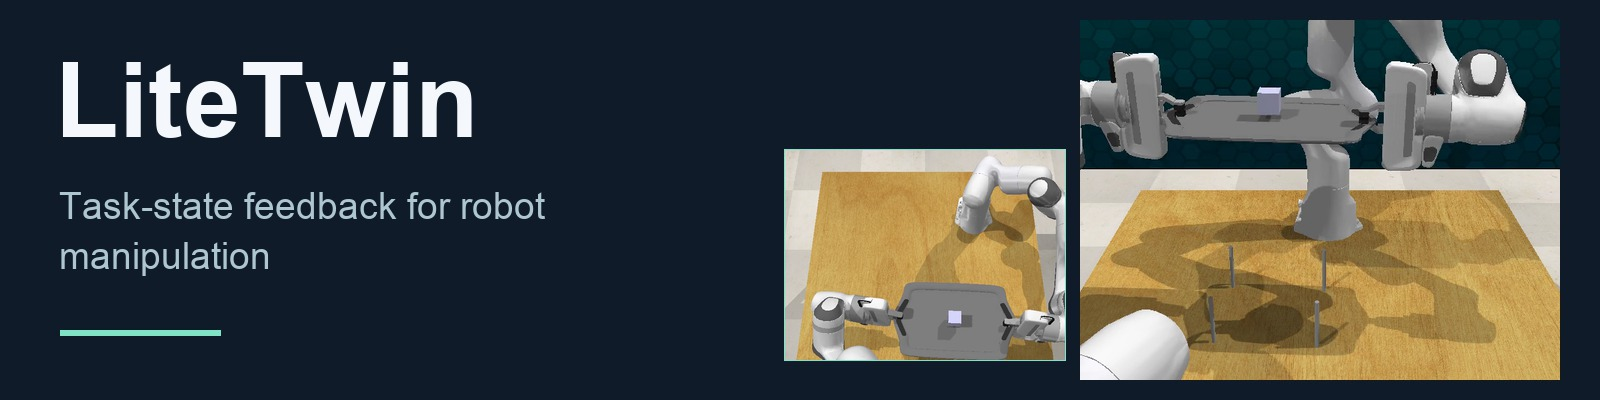
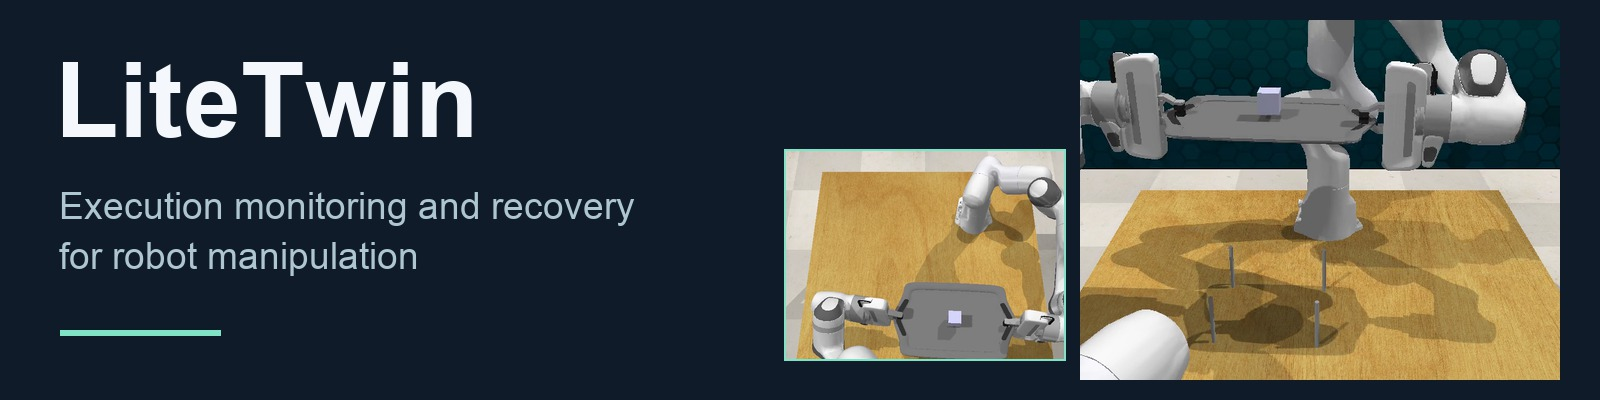
Use LiteTwin execution monitoring and recovery branding consistently

diff --git a/docs/translations.js b/docs/translations.js
@@ -114,7 +114,7 @@ const translations = {
     "navLibrary": "Task library",
     "navMethod": "Method",
     "heroKicker": "RLBench simulation",
-    "heroSecond": "Task-state feedback for robot manipulation",
+    "heroSecond": "Execution monitoring and recovery for robot manipulation",
     "watch": "Play the 40-second film",
     "browse": "Browse tasks",
     "navigation": "Navigation",
@@ -297,7 +297,7 @@ const translations = {
     "navLibrary": "任务库",
     "navMethod": "方法",
     "heroKicker": "RLBench 仿真",
-    "heroSecond": "机器人操作的任务状态反馈",
+    "heroSecond": "机器人操作的执行监控与恢复",
     "watch": "播放 40 秒短片",
     "browse": "浏览任务库",
     "navigation": "页面导航",
@@ -480,7 +480,7 @@ const translations = {
     "navLibrary": "任務庫",
     "navMethod": "方法",
     "heroKicker": "RLBench 模擬",
-    "heroSecond": "機器人操作的任務狀態回饋",
+    "heroSecond": "機器人操作的執行監控與恢復",
     "watch": "播放 40 秒短片",
     "browse": "瀏覽任務庫",
     "navigation": "頁面導覽",

diff --git a/docs/index.html b/docs/index.html
@@ -6,7 +6,7 @@
     <meta name="theme-color" content="#101719" />
     <meta
       name="description"
-      content="Explore LiteTwin task-state feedback through synchronized robot manipulation recordings, annotated comparisons and a reproducible simulation."
+      content="Explore LiteTwin execution monitoring and recovery through synchronized robot manipulation recordings, annotated comparisons and a reproducible simulation."
     />
     <title>LiteTwin · Robot manipulation demos</title>
     <link rel="icon" href="figures/litetwin-mark.png" />
@@ -224,7 +224,7 @@
             <h1 id="hero-title"
               ><span data-text="headline">LiteTwin</span>
               <em data-text="heroSecond"
-                >Task-state feedback for robot manipulation</em
+                >Execution monitoring and recovery for robot manipulation</em
               ></h1
             >
             <p class="hero-intro" data-text="intro"

diff --git a/demo/visualize_online.py b/demo/visualize_online.py
@@ -145,7 +145,7 @@ def render(records_root: Path, model_summary: Path, output_stem: Path) -> None:
     ax_relation = fig.add_subplot(grid[2], sharex=ax)
 
     fig.suptitle(
-        "Online task-state feedback during one perturbed rollout",
+        "Online execution monitoring and recovery during one perturbed rollout",
         x=0.15,
         y=0.955,
         ha="left",

diff --git a/code/litetwin/__init__.py b/code/litetwin/__init__.py
@@ -1,4 +1,4 @@
-"""Object-centric motion and task-state feedback implementations."""
+"""Object-centric motion and execution monitoring and recovery implementations."""
 
 from .policy import (
     BimanualDynaMAC,

diff --git a/code/litetwin/policy/__init__.py b/code/litetwin/policy/__init__.py
@@ -1,4 +1,4 @@
-"""Object-centric motion and task-state feedback policies."""
+"""Object-centric motion and execution monitoring and recovery policies."""
 
 from .feedback import (
     ArmCommand,

diff --git a/code/litetwin/policy/feedback/policy.py b/code/litetwin/policy/feedback/policy.py
@@ -57,7 +57,7 @@ Array = np.ndarray
 
 class LiteTwinMultiStreamPolicy:
 
-    name = "task_state_feedback"
+    name = "litetwin"
 
     def __init__(
         self,

diff --git a/README.zh-Hant.md b/README.zh-Hant.md
@@ -1,6 +1,6 @@
 <p align="center"><a href="README.md">English</a> &nbsp; · &nbsp; <a href="README.zh-Hans.md">简体中文</a> &nbsp; · &nbsp; <b>繁體中文</b></p>
 
-<p align="center"><img src="docs/figures/masthead.zh-Hant.jpg" alt="LiteTwin — 面向機器人操作的任務狀態回饋" width="100%"></p>
+<p align="center"><img src="docs/figures/masthead.zh-Hant.jpg" alt="LiteTwin — 面向機器人操作的執行監控與恢復" width="100%"></p>
 
 <p align="center"><a href="#demos">觀看演示</a> &nbsp; · &nbsp; <a href="#how-it-works">運作原理</a> &nbsp; · &nbsp; <a href="#quickstart">快速開始</a> &nbsp; · &nbsp; <a href="#code">程式碼</a> &nbsp; · &nbsp; <a href="#license">授權條款</a></p>
 

diff --git a/README.zh-Hans.md b/README.zh-Hans.md
@@ -1,6 +1,6 @@
 <p align="center"><a href="README.md">English</a> &nbsp; · &nbsp; <b>简体中文</b> &nbsp; · &nbsp; <a href="README.zh-Hant.md">繁體中文</a></p>
 
-<p align="center"><img src="docs/figures/masthead.zh-Hans.jpg" alt="LiteTwin — 面向机器人操作的任务状态反馈" width="100%"></p>
+<p align="center"><img src="docs/figures/masthead.zh-Hans.jpg" alt="LiteTwin — 面向机器人操作的执行监控与恢复" width="100%"></p>
 
 <p align="center"><a href="#demos">观看演示</a> &nbsp; · &nbsp; <a href="#how-it-works">工作原理</a> &nbsp; · &nbsp; <a href="#quickstart">快速开始</a> &nbsp; · &nbsp; <a href="#code">代码</a> &nbsp; · &nbsp; <a href="#license">许可证</a></p>
 

diff --git a/README.md b/README.md
@@ -1,6 +1,6 @@
 <p align="center"><b>English</b> &nbsp; · &nbsp; <a href="README.zh-Hans.md">简体中文</a> &nbsp; · &nbsp; <a href="README.zh-Hant.md">繁體中文</a></p>
 
-<p align="center"><img src="docs/figures/masthead.en.jpg" alt="LiteTwin — Task-state feedback for robot manipulation" width="100%"></p>
+<p align="center"><img src="docs/figures/masthead.en.jpg" alt="LiteTwin — Execution monitoring and recovery for robot manipulation" width="100%"></p>
 
 <p align="center"><a href="#demos">Demos</a> &nbsp; · &nbsp; <a href="#how-it-works">How it works</a> &nbsp; · &nbsp; <a href="#quickstart">Quick start</a> &nbsp; · &nbsp; <a href="#code">Code</a> &nbsp; · &nbsp; <a href="#license">License</a></p>
 
